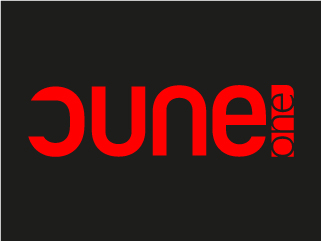
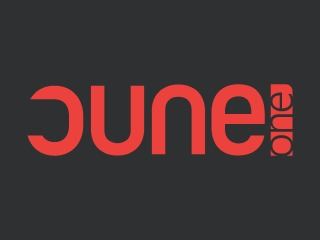
Fixes

Changed region(s): [[0.0312, 0.3208, 0.9688, 0.6708], [0.0, 0.0, 1.0, 0.0292], [0.0312, 0.4375, 0.0625, 0.4667]]

diff --git a/include/defaults.h b/include/defaults.h
@@ -10,7 +10,7 @@
 // ***************************************************************************
 // Color definitions
 #define TFT_BLACK       0x0000      /*   0,   0,   0 */
-#define TFT_DKGRAY      0x31A6
+#define TFT_DKGRAY      0x31A6      /*  54,  54,  54 */
 #define TFT_WHITE       0xFFFF      /* 255, 255, 255 */
 #define TFT_GREEN       0x07E0      /*   0, 255,   0 */
 #define TFT_MAGENTA     0xF81F      /* 255,   0, 255 */
@@ -30,7 +30,7 @@
 // #define TFT_CS   			      15	 // TFT PIN 3
 // #define TFT_DC   			       2   // TFT PIN 5
 // #define TFT_RST  			      -1	 // TFT PIN 4, ESP32 PIN EN
-#define TFT_LED  			       3	 // TFT PIN 8
+#define TFT_LED  			       22 //3	 // TFT PIN 8
 
 #define f012m   "fonts/Roboto-Med-012"
 #define f009r   "fonts/Roboto-Reg-009"
@@ -74,7 +74,7 @@
 const int ledFreq 					         = 5000;
 const int ledChannel 				         = 0;
 const int ledResolution 			       = 8;
-const int tftDelay 					         = 1 * 60;   // 10 seconds // TFT delay before turning down brightness
+const int tftDelay 					         = 10;        // 10 seconds // TFT delay before turning down brightness
 const int tftSleepBrightness 		     = 30 * 60;   // TFT brightness after delay
 const int weatherScreenTimeout  	   =  5 * 60;   // weather screen will return to time screen after this number of minutes
 const time_t weatherUpdateFrequency	 = 10 * 60;   // update weather every 10 minutes (1 minute = 60)

diff --git a/src/tft.cpp b/src/tft.cpp
@@ -98,6 +98,10 @@ void paintTimeModeScreen() {
     tft.unloadFont();
   }
 
+  TJpgDec.drawFsJpg( 10, 160, "/icons/wifi_off_black.jpg");
+  TJpgDec.drawFsJpg( 28, 160, "/icons/wifi_white.jpg");
+  TJpgDec.drawFsJpg( 10, 190, "/icons/temp-blk.jpg");
+
   ///  WEATHER  ///////////////////////////////////////////////////
   // check if we have weather data
   // If we do not have it or it is stale, display message
@@ -357,14 +361,13 @@ void topBar(topbar t) {
     xpos -= 10;
   }
 
-  int icons_xpos = xpos;
-
   if (t == basic || t == full)
     spr.drawString(myTZ.dateTime("j F Y"), 10, 5);
 
   spr.unloadFont();
   spr.pushSprite(0, 0);
 
+  int icons_xpos = xpos;
   icons_xpos -= 16;
   ypos = 4;
   String wifi_icon;
